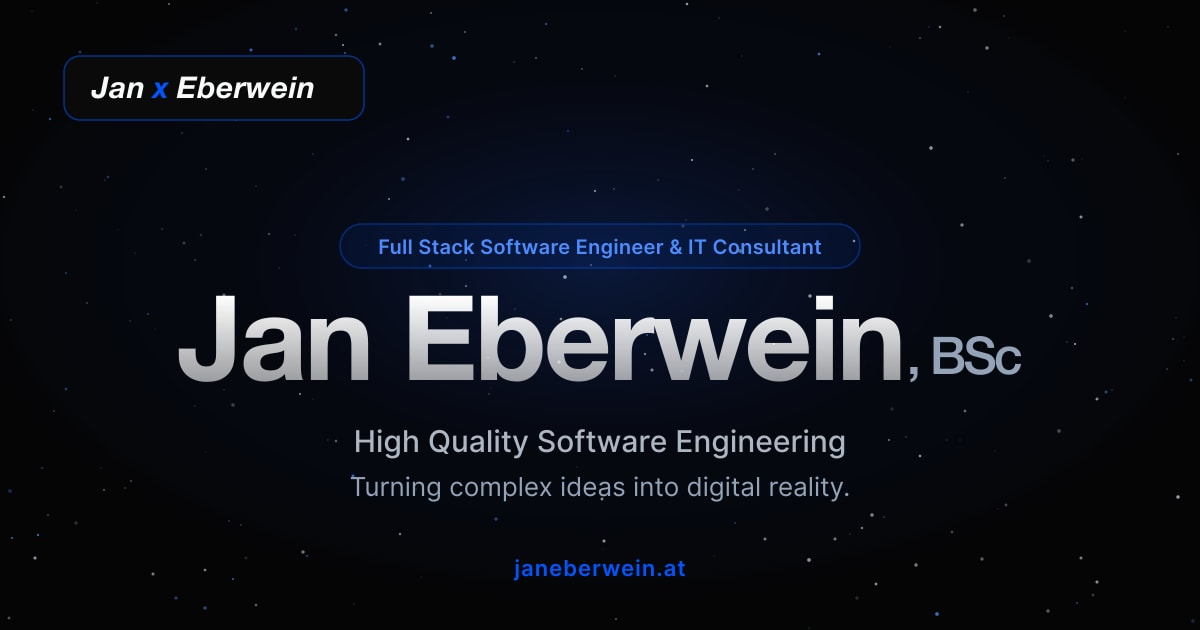
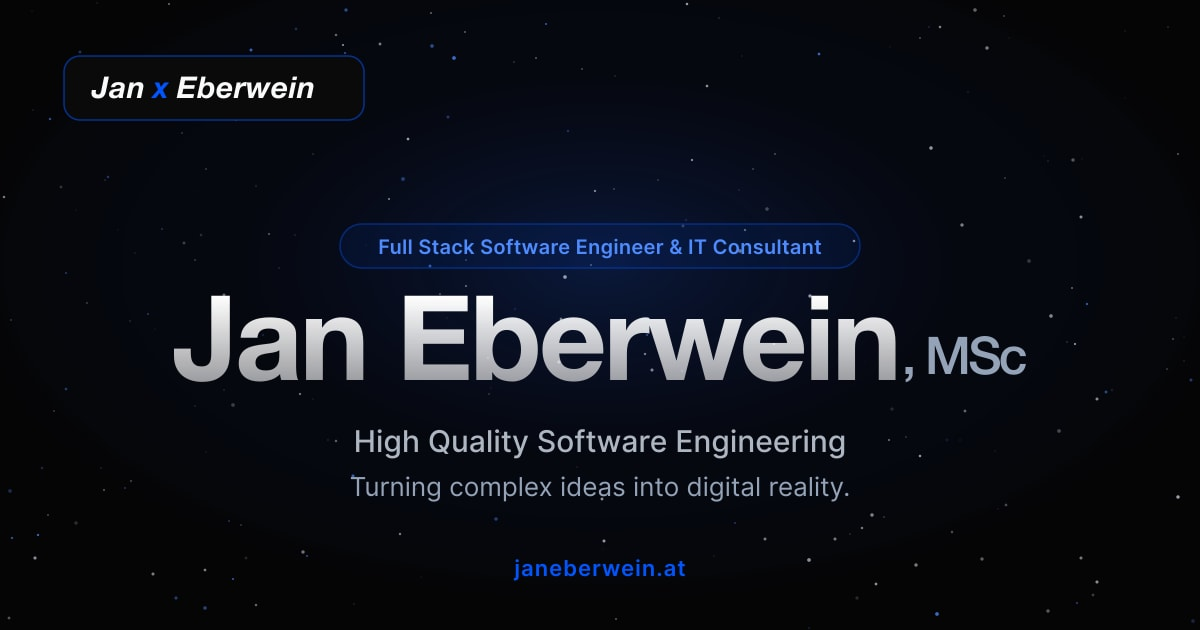
feat: update degree from BSc to MSc
Master's degree completed. Updates the hero title suffix in both
locales, the about text that still said the master's was in progress,
and regenerates the OG social preview image.

Changed region(s): [[0.3392, 0.4524, 0.8633, 0.6032], [0.1233, 0.4825, 0.3083, 0.6032]]

diff --git a/src/components/i18n/translations.ts b/src/components/i18n/translations.ts
@@ -8,7 +8,7 @@ export const translations = {
     hero: {
       badge: "Full Stack Software Engineer & IT Consultant",
       title: "Jan Eberwein",
-      titleSuffix: ", BSc",
+      titleSuffix: ", MSc",
       subtitle: "",
       description:
         "I build high-performance software and AI-driven interfaces.<br/>Focused on clean code, seamless usability, and scalable architecture.<br/>Helping businesses and individuals turn complex ideas into digital reality.",
@@ -19,7 +19,7 @@ export const translations = {
     },
     about: {
       title: "ABOUT",
-      p1: "I am currently finishing my master's degree in Interactive Media at FH Oberösterreich - Campus Hagenberg. I combine design, code, and technology to create digital products that feel simple, useful, and carefully crafted.",
+      p1: "I recently completed my master's degree in Interactive Media at FH Oberösterreich - Campus Hagenberg. I combine design, code, and technology to create digital products that feel simple, useful, and carefully crafted.",
       p2: "My work focuses on modern frontend development, interactive systems, data visualization, and AI-supported workflows. I am interested in leveraging new technologies to solve problems and build automated, intelligent solutions.",
     },
     projects: {
@@ -71,7 +71,7 @@ export const translations = {
     hero: {
       badge: "Full Stack Software Engineer & IT Consultant",
       title: "Jan Eberwein",
-      titleSuffix: ", BSc",
+      titleSuffix: ", MSc",
       subtitle: "",
       description:
         "Ich entwickle performante Software und KI-gestützte Interfaces.<br/>Fokus auf sauberen Code, nahtlose Usability und skalierbare Architektur.<br/>Ich helfe Unternehmen und Menschen, komplexe Ideen in digitale Realität umzusetzen.",
@@ -82,7 +82,7 @@ export const translations = {
     },
     about: {
       title: "ABOUT",
-      p1: "Ich schließe gerade meinen Master in Interactive Media ab. Ich liebe es, Design, Code und Technologie zu verbinden, um digitale Produkte zu erschaffen, die sich einfach, nützlich und sorgfältig entwickelt anfühlen.",
+      p1: "Ich habe vor Kurzem meinen Master in Interactive Media abgeschlossen. Ich liebe es, Design, Code und Technologie zu verbinden, um digitale Produkte zu erschaffen, die sich einfach, nützlich und sorgfältig entwickelt anfühlen.",
       p2: "Meine Arbeit konzentriert sich auf moderne Frontend-Entwicklung, interaktive Systeme, Datenvisualisierungen und KI-gestützte Workflows. Ich interessiere mich besonders dafür, neue Technologien zur Lösung komplexer Probleme zu nutzen und automatisierte, intelligente Lösungen zu bauen.",
     },
     projects: {
